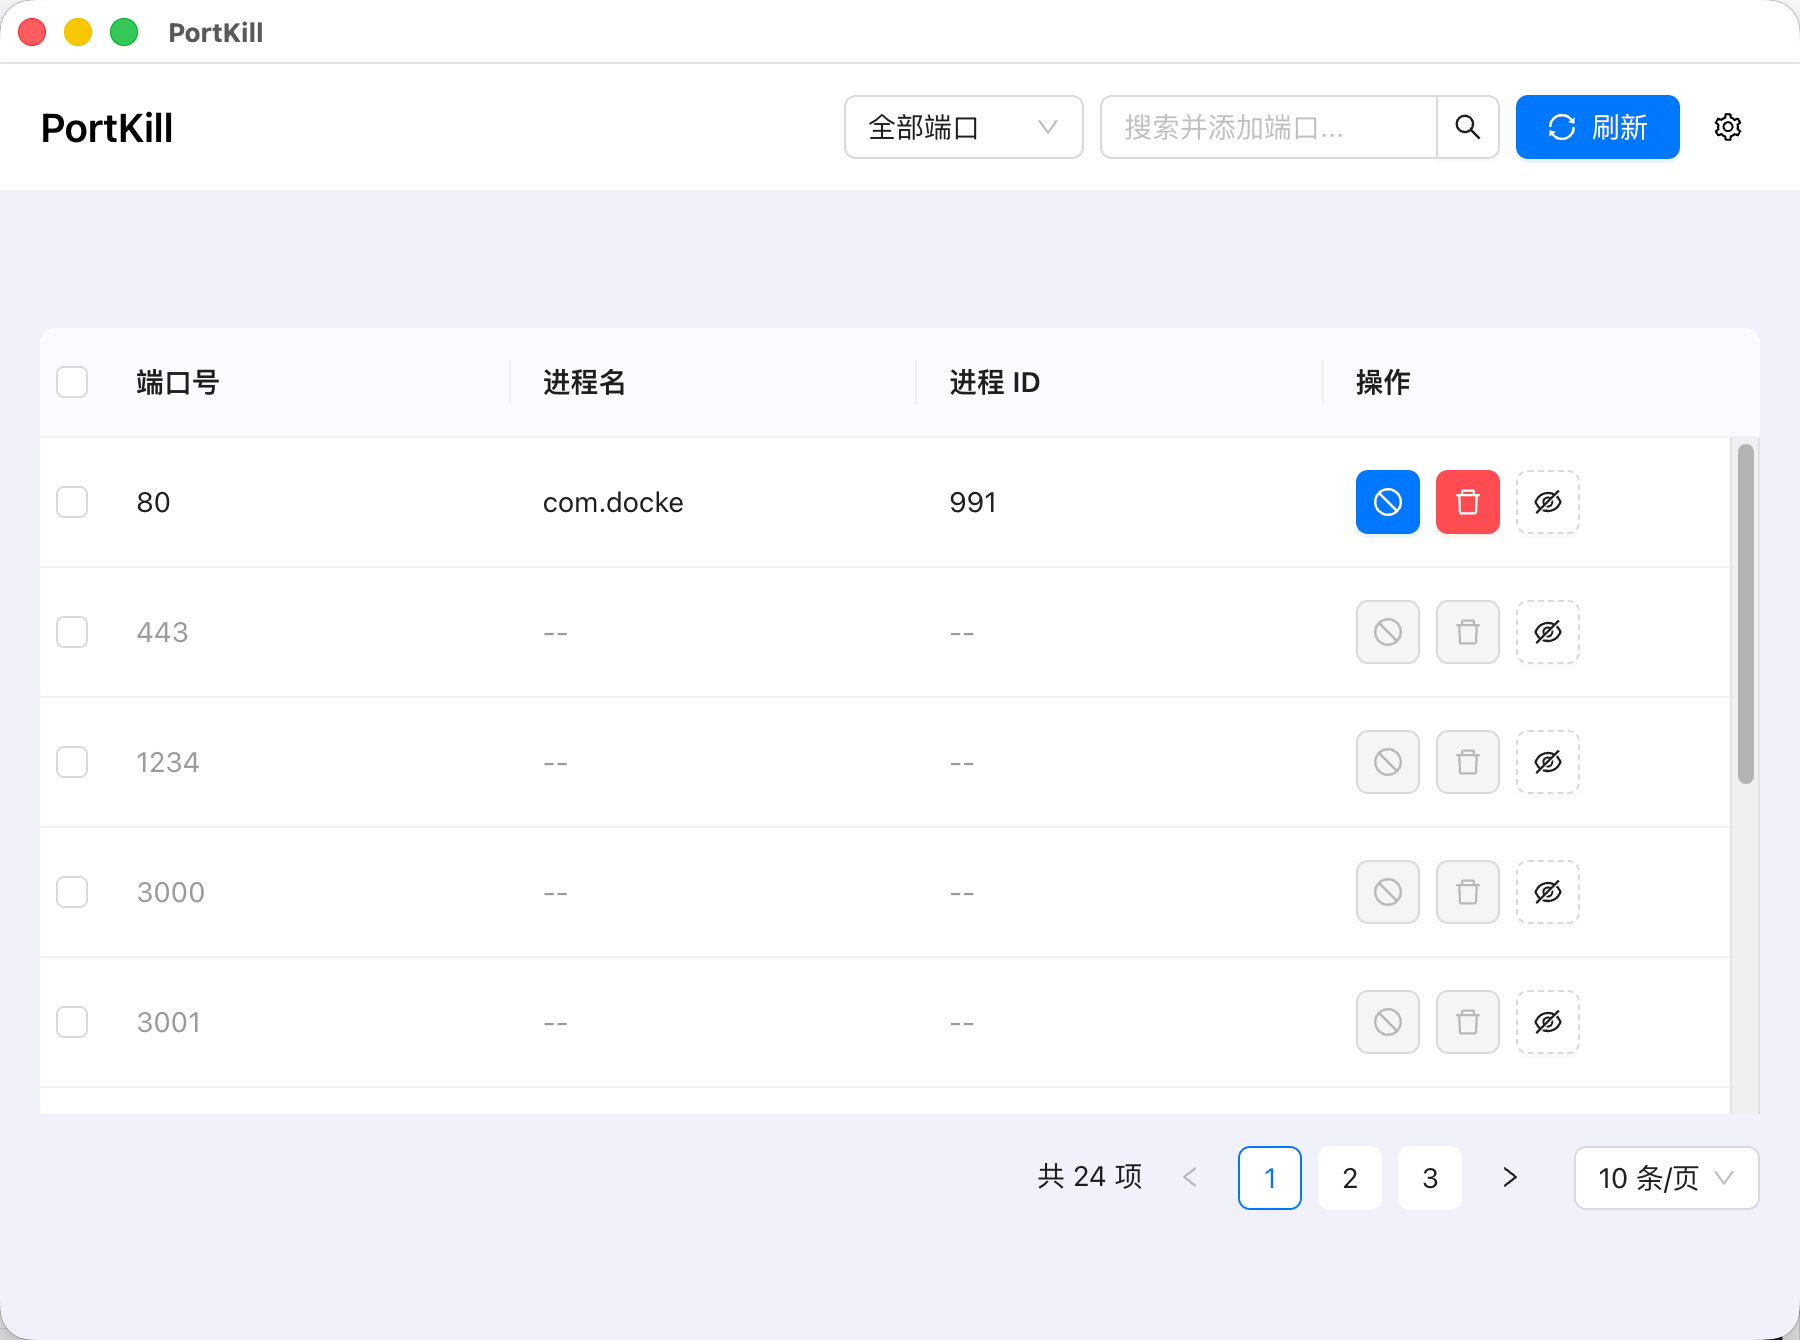
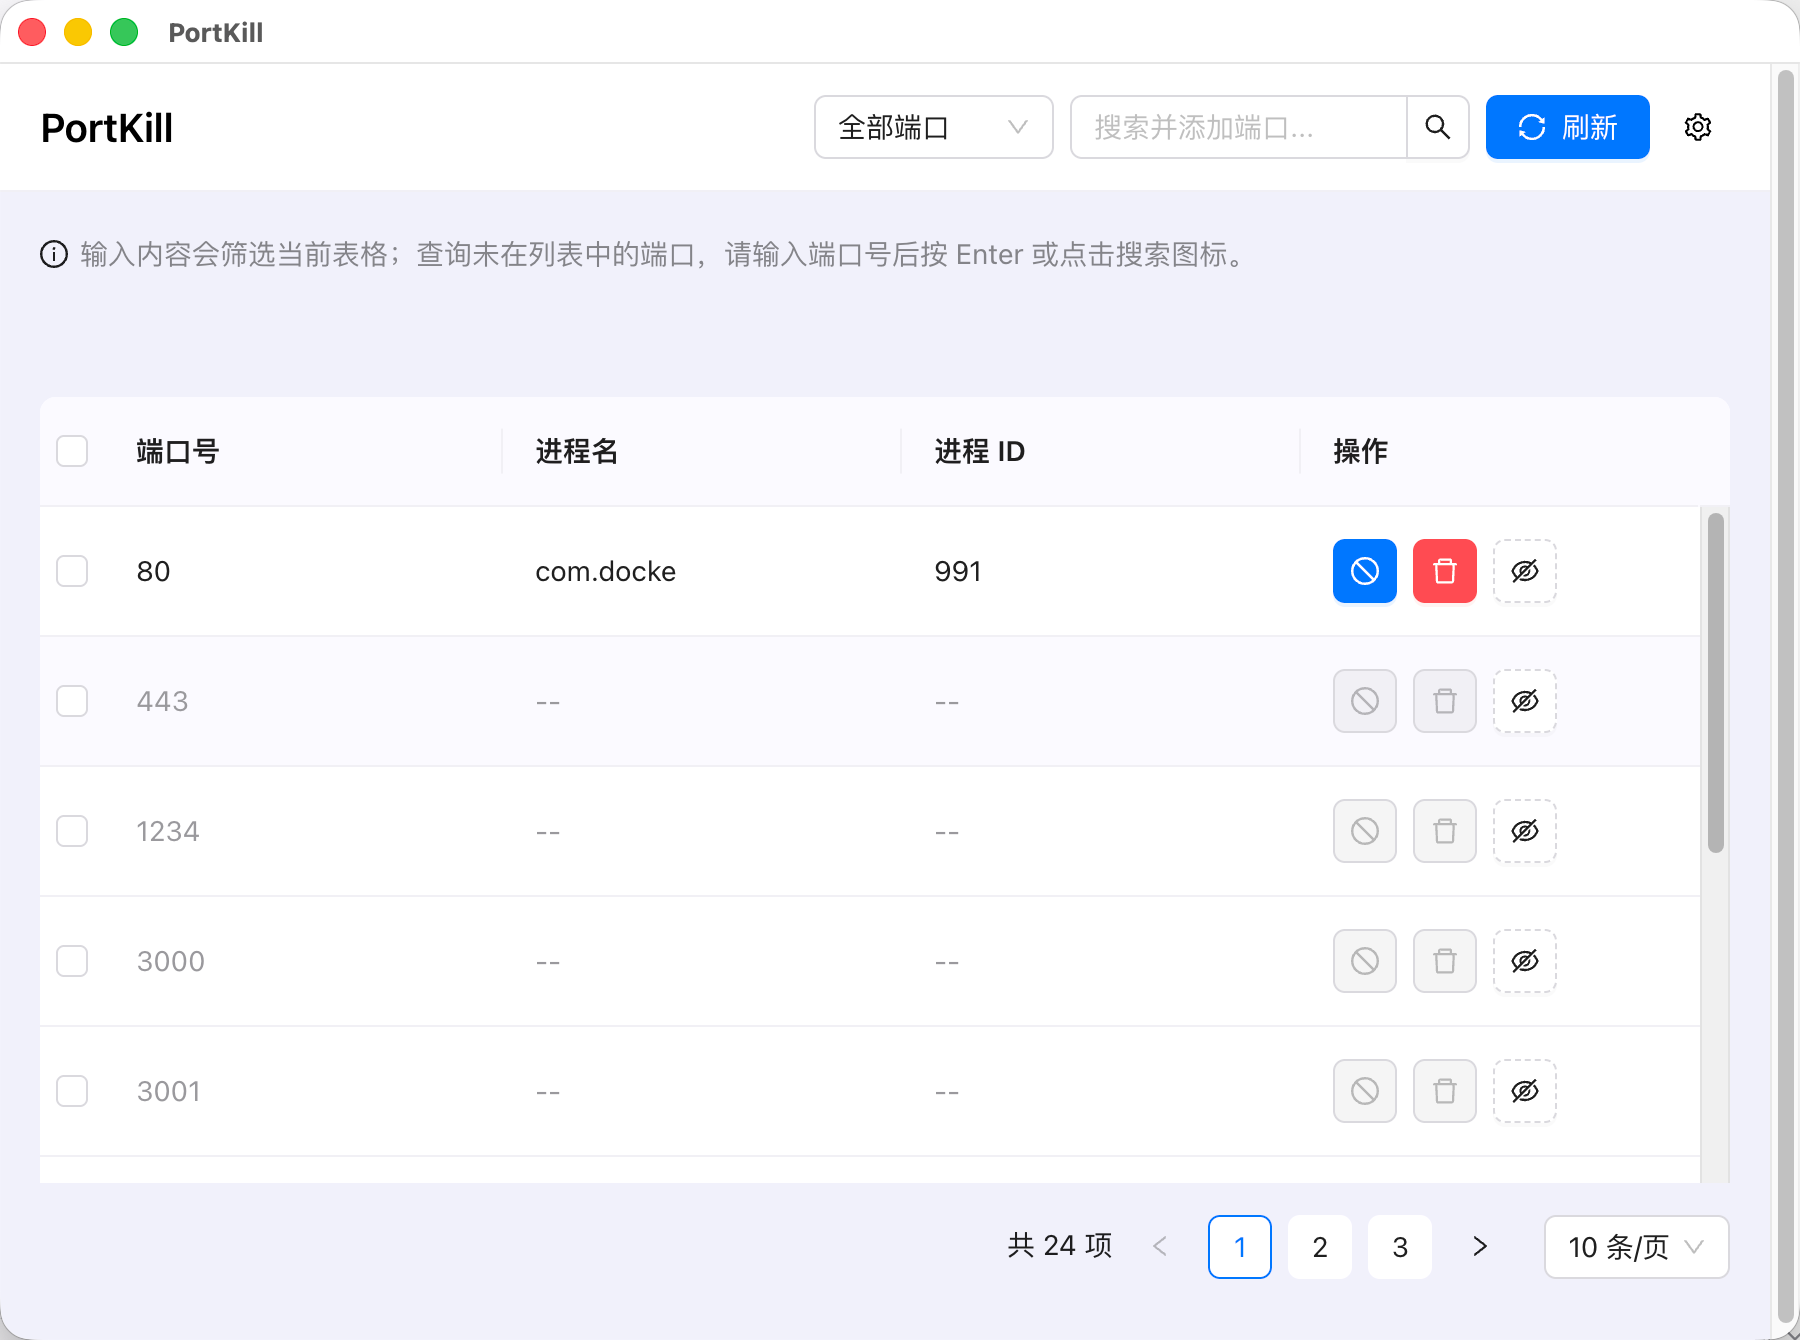
feat: 明确端口查询方式

diff --git a/src/renderer/src/i18n.ts b/src/renderer/src/i18n.ts
@@ -6,6 +6,8 @@ const resources = {
     translation: {
       appName: 'PortKill',
       searchPlaceholder: 'Search & Add Port...',
+      searchHint:
+        'Typing filters the current table. To check an unlisted port, enter it and press Enter or click Search.',
       refresh: 'Refresh',
       port: 'Port',
       processName: 'Process Name',
@@ -102,6 +104,8 @@ const resources = {
     translation: {
       appName: 'PortKill',
       searchPlaceholder: '搜索并添加端口...',
+      searchHint:
+        '输入内容会筛选当前表格；查询未在列表中的端口，请输入端口号后按 Enter 或点击搜索图标。',
       refresh: '刷新',
       port: '端口号',
       processName: '进程名',

diff --git a/src/renderer/src/App.tsx b/src/renderer/src/App.tsx
@@ -16,6 +16,7 @@ import {
 import {
   DeleteOutlined,
   EyeInvisibleOutlined,
+  InfoCircleOutlined,
   SettingOutlined,
   StopOutlined,
   SyncOutlined
@@ -295,6 +296,10 @@ function App(): React.JSX.Element {
               }
             />
           )}
+          <Space size={6} style={{ marginBottom: 12 }}>
+            <InfoCircleOutlined />
+            <Typography.Text type="secondary">{t('searchHint')}</Typography.Text>
+          </Space>
           <div
             style={{
               marginBottom: 16,

diff --git a/README.md b/README.md
@@ -25,13 +25,13 @@
 未加入 Apple Developer Program 的应用可能会被 macOS Gatekeeper 拦截，并显示 Apple 无法验证的提示。这表示 Apple 尚未验证该应用，并不代表应用一定安全。请仅对从 [GitHub Releases](https://github.com/bosens-China/PortKill/releases/) 下载的安装包执行以下操作。
 
 1. 首次双击应用时，看到提示后点击“完成”。
-
-   ![macOS 首次打开时的安全提示](docs/images/macos-gatekeeper-warning.png)
-
 2. 打开“系统设置 → 隐私与安全性”，滚动到页面底部，找到 PortKill 的拦截提示。
 3. 点击“仍要打开”，并在随后出现的确认框中再次点击“仍要打开”。
 
-   ![在 macOS 隐私与安全性中允许打开 PortKill](docs/images/macos-privacy-security-open-anyway.png)
+<p align="center">
+  <img src="docs/images/macos-gatekeeper-warning.png" alt="macOS 首次打开时的安全提示" height="260" />
+  <img src="docs/images/macos-privacy-security-open-anyway.png" alt="在 macOS 隐私与安全性中允许打开 PortKill" height="260" />
+</p>
 
 之后即可正常打开 PortKill。若未出现“仍要打开”按钮，请在 Finder 中按住 Control 键点按 PortKill，选择“打开”，再在确认框中点击“打开”。
 
